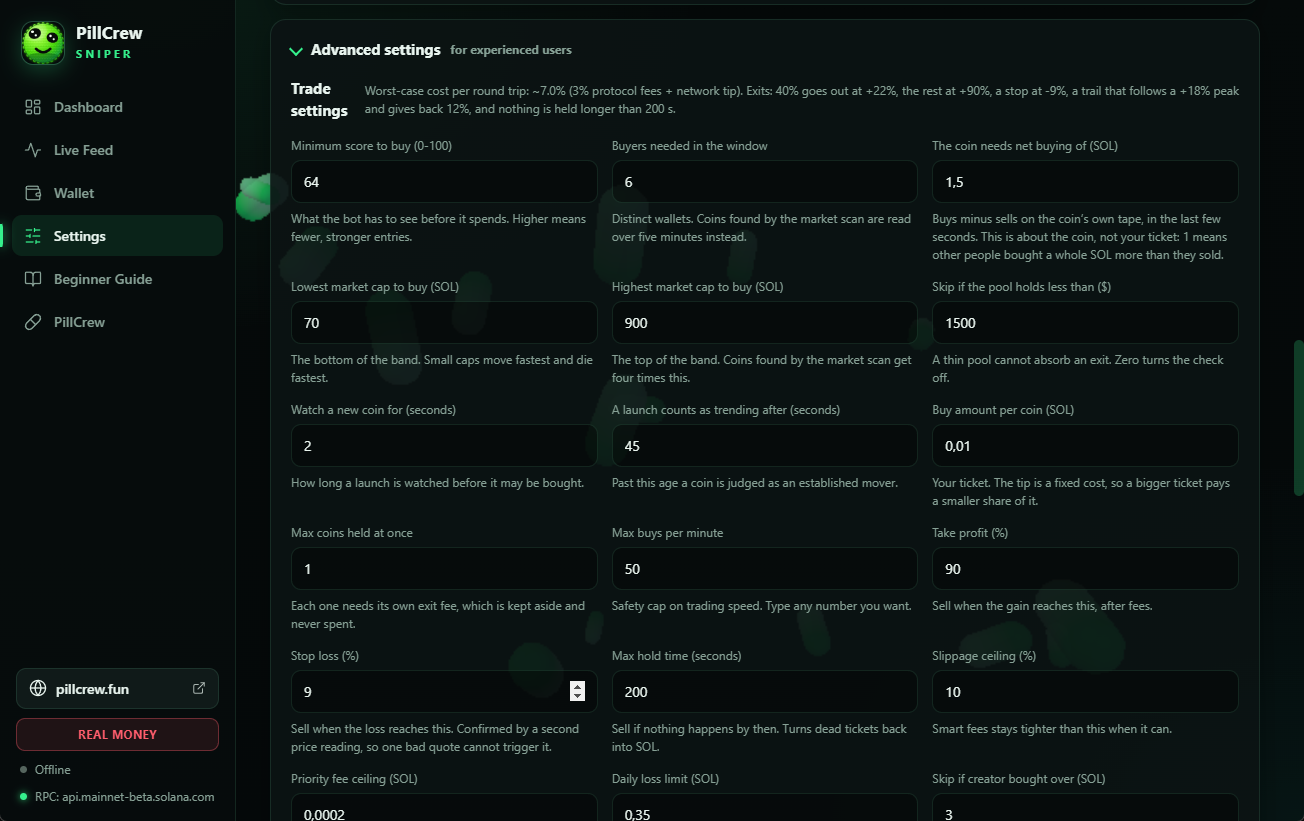
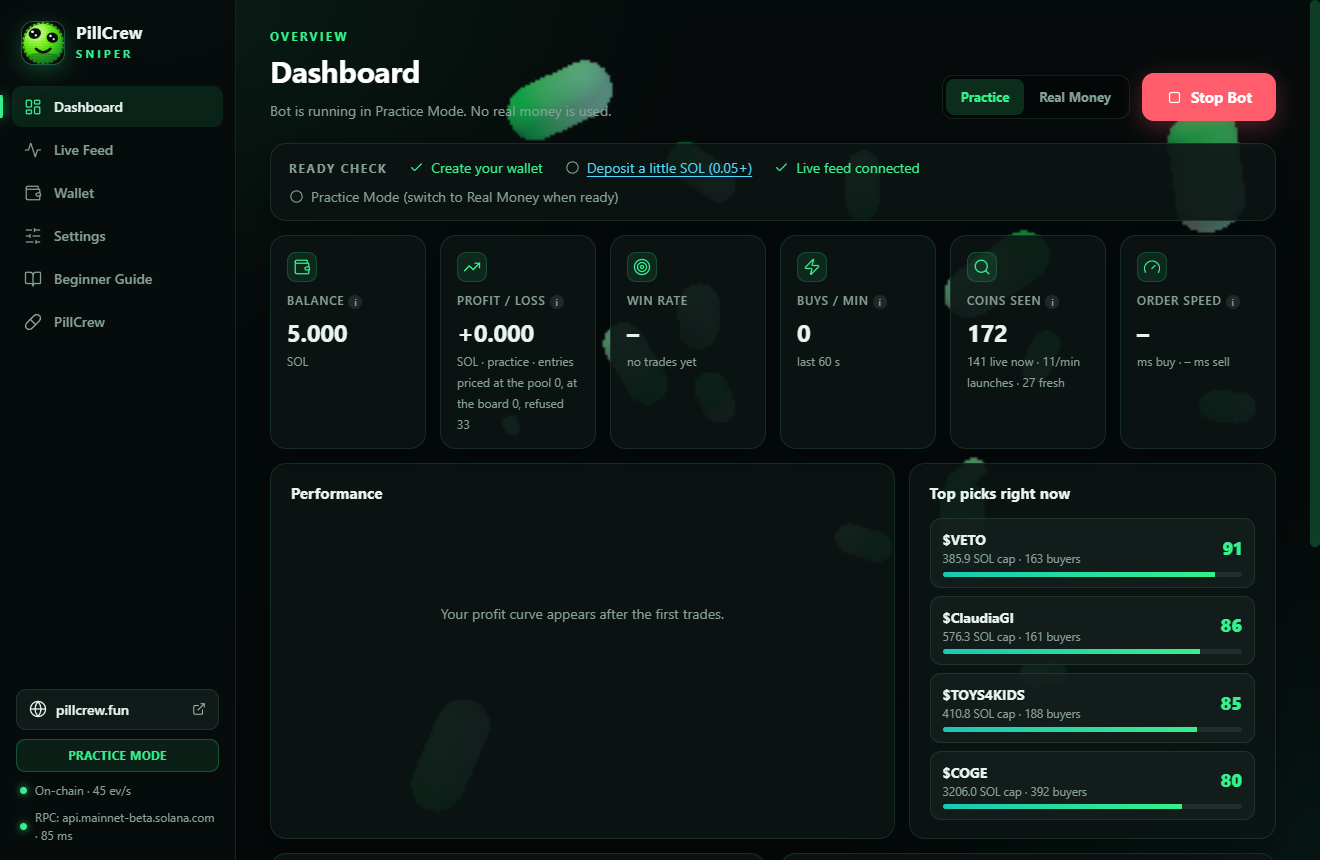
Fix the lockfile so CI can install, and put the pictures back in the README
npm ci refused the tree: jayson needs utf-8-validate@5.0.10 nested and the lock carried only the hoisted 6.0.6, so every run since 1.0.1 stopped at the install step. The lock is regenerated in a clean tree with npm 10 and proved with a real npm ci.

The README lost the banner and the screenshots when the 1.0.1 rewrite replaced the file; the PNGs were never deleted. Fresh pictures of 1.0.4 are captured from a throwaway profile (its wallet is created for the picture and deleted with it), and the live feed shot is the real market with scores and refusal sentences.

diff --git a/README.md b/README.md
@@ -1,6 +1,21 @@
 # PillCrew Sniper
 
+![PillCrew Sniper](promo/banner.png)
+
 A desktop trading app for Pump.fun with an encrypted local wallet, live market feeds, configurable entries and exits, and a separate Practice Mode.
+
+## What it looks like
+
+| The dashboard | The live feed |
+| --- | --- |
+| ![Dashboard](screenshots/dashboard.png) | ![Live feed](screenshots/feed.png) |
+
+| The wallet | Settings and presets |
+| --- | --- |
+| ![Wallet](screenshots/wallet.png) | ![Settings](screenshots/settings.png) |
+
+Every picture is the shipped program in Practice Mode — the real window, the real market data, not a mock-up. The
+wallet in the picture was created for the screenshot and thrown away with the profile it lived in.
 
 ## Run locally
 
